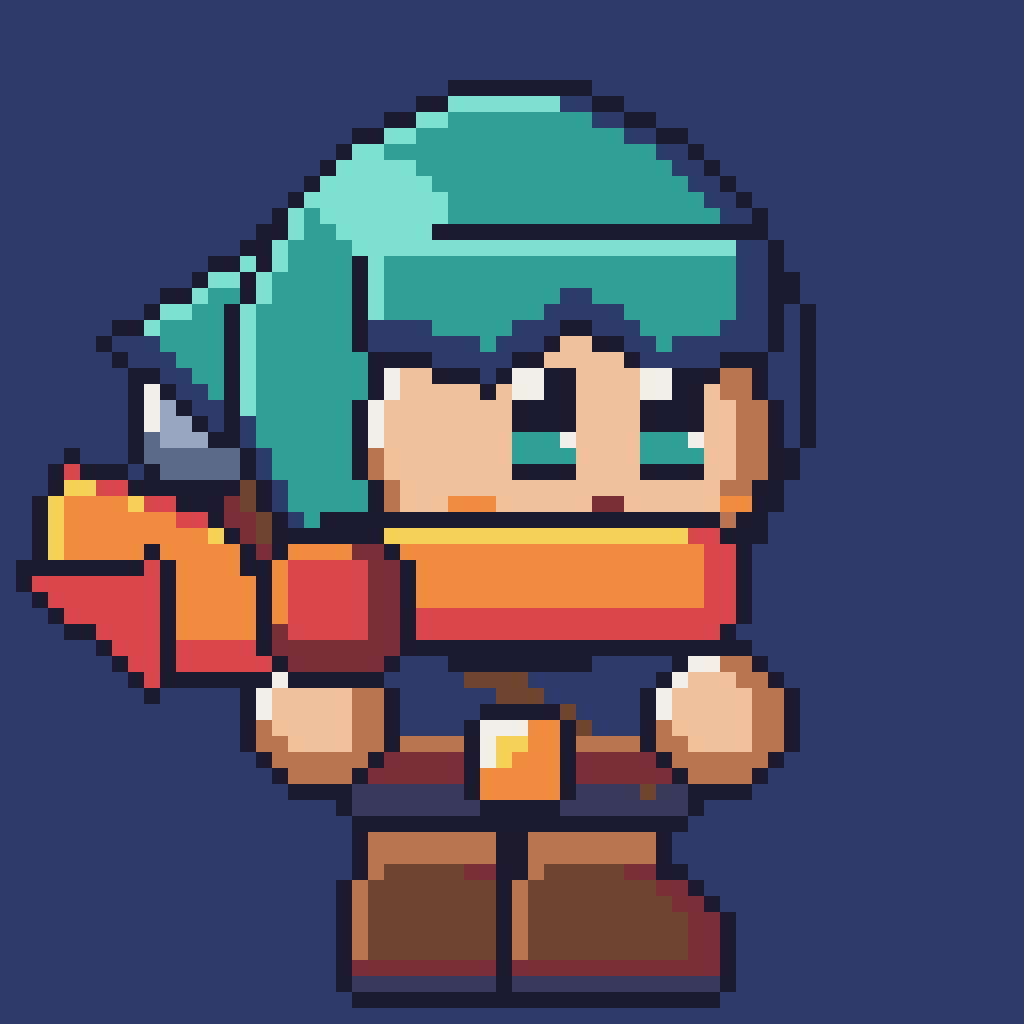
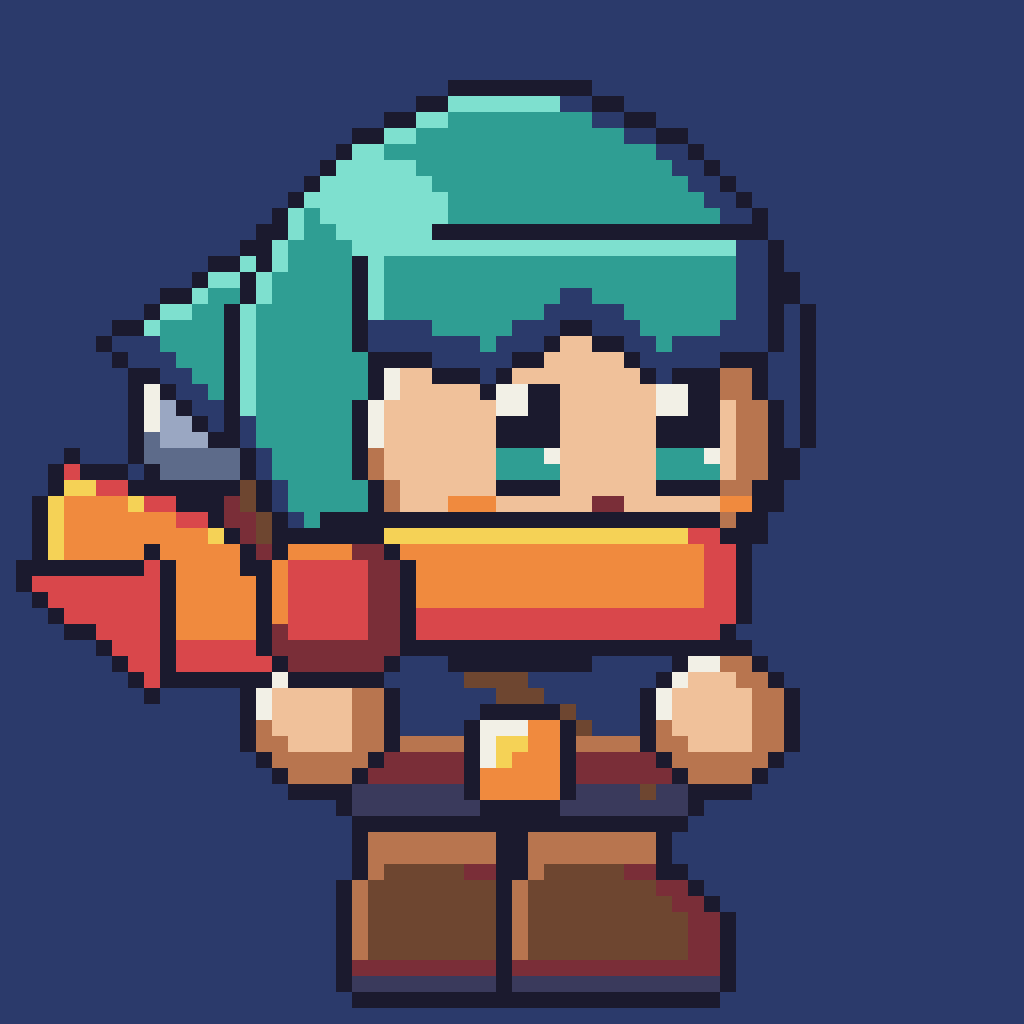
Wider-set, lower eyes on Flicker and Twinshot
Claude-Session: https://claude.ai/code/session_01J8LgTLVYzThXjNSRVhWqep

Changed region(s): [[0.4688, 0.3438, 0.5625, 0.5], [0.625, 0.3438, 0.7188, 0.5]]

diff --git a/tools/sprites/generate.py b/tools/sprites/generate.py
@@ -146,7 +146,7 @@ def flicker(step=None):
     up.part(E((23, 15, 47, 35)), SKIN)  # face
     up.part(P([(23, 13), (47, 13), (47, 19), (41, 21), (36, 17), (30, 21), (23, 19)]), TEAL)  # fringe
     up.flat(E((20, 8, 27, 13)), TEAL_L)  # hood shine
-    big_eyes(up, 21, (32, 40), TEAL)
+    big_eyes(up, 22, (31, 41), TEAL)
     face(up, (28, 45, 29), (37, 29))
     up.part(RR((19, 31, 45, 37), 2), ORANGE)  # scarf
     up.part(RR((17, 32, 24, 39), 2), RED)  # scarf knot
@@ -211,10 +211,10 @@ def twinshot(step=None):
         up.part(RR((x + 1, 36, x + 5, 43), 1), STEEL_D)  # grip
         up.dot(x + 2, 37, STEEL)
     up.part(E((20, 14, 44, 37)), SKIN)  # face
-    big_eyes(up, 23, (30, 37), BLUE)
-    up.flat(R((30, 21, 33, 21)), BROWN)  # brows
-    up.flat(R((37, 21, 40, 21)), BROWN)
-    face(up, (26, 42, 30))
+    big_eyes(up, 23, (29, 38), BLUE)
+    up.flat(R((29, 21, 32, 21)), BROWN)  # brows
+    up.flat(R((38, 21, 41, 21)), BROWN)
+    face(up, (25, 43, 30))
     up.part(RR((20, 32, 44, 37), 2), RED)  # bandana
     up.part(P([(21, 33), (14, 37), (16, 40), (22, 36)]), RED)  # bandana tail
     up.part(E((5, 13, 59, 23)), BROWN)  # hat brim
